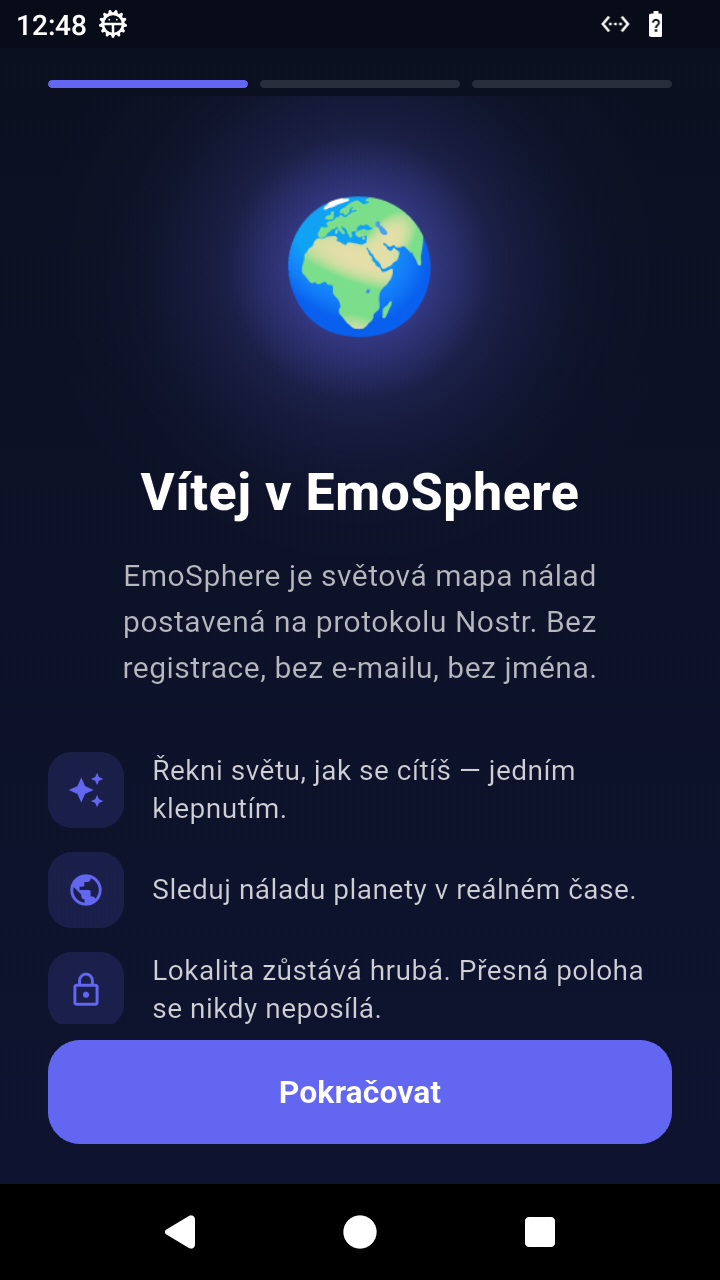
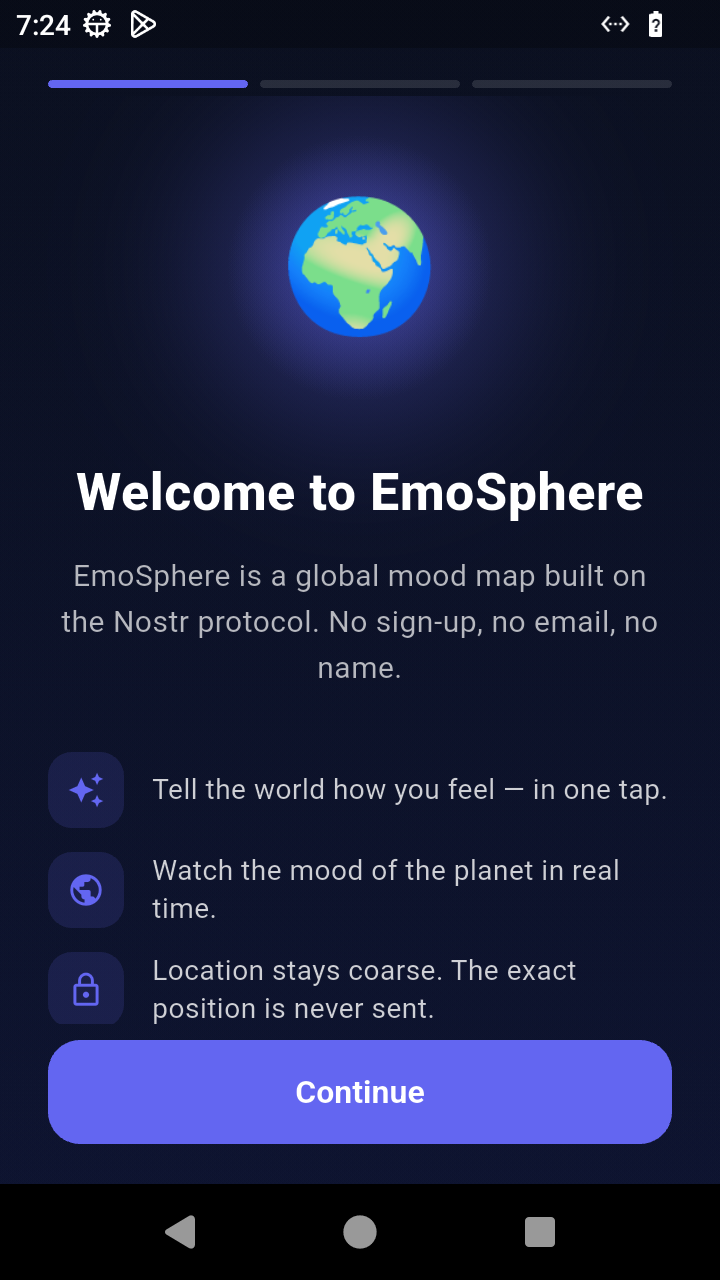
docs(screenshots): refresh all screenshots in English (v0.3.2 UI)

diff --git a/README.md b/README.md
@@ -24,27 +24,27 @@ right now.
   <tr>
     <td align="center"><img src="docs/screenshots/01-onboarding.png" width="230" alt="Onboarding"><br><sub>Onboarding — welcome</sub></td>
     <td align="center"><img src="docs/screenshots/02-onboarding-key.png" width="230" alt="Generate or import your key"><br><sub>Generate or import your Nostr key</sub></td>
-    <td align="center"><img src="docs/screenshots/03-mapa.png" width="230" alt="World mood map"><br><sub>World mood map (empty state)</sub></td>
+    <td align="center"><img src="docs/screenshots/03-map.png" width="230" alt="World mood map"><br><sub>World mood map — live emotion heat</sub></td>
   </tr>
   <tr>
     <td align="center"><img src="docs/screenshots/04-checkin-sheet.png" width="230" alt="Check-in"><br><sub>Check-in — emotion, intensity, note</sub></td>
     <td align="center"><img src="docs/screenshots/05-feed.png" width="230" alt="Feed"><br><sub>Feed — my people &amp; the world</sub></td>
-    <td align="center"><img src="docs/screenshots/06-nastaveni.png" width="230" alt="Settings"><br><sub>Settings — profile, key, language</sub></td>
+    <td align="center"><img src="docs/screenshots/06-settings.png" width="230" alt="Settings"><br><sub>Settings — profile, key, language</sub></td>
   </tr>
   <tr>
-    <td align="center"><img src="docs/screenshots/07-historie.png" width="230" alt="History"><br><sub>History — my check-ins</sub></td>
+    <td align="center"><img src="docs/screenshots/07-history.png" width="230" alt="History"><br><sub>History — my check-ins</sub></td>
     <td></td>
     <td></td>
   </tr>
 </table>
 
-The screenshots show the Czech UI — the app ships in Czech and English.
+The screenshots show the English UI — the app ships in English and Czech.
 
 ## Get the app
 
 | Platform | How to install |
 |---|---|
-| **Android** | Download `app-release.apk` from the [latest release](https://github.com/Vojta01/emosphere/releases/latest), allow installation from unknown sources and open the file. Android 7.0+ (API 24+). |
+| **Android** | Download the `emosphere-<version>.apk` from the [latest release](https://github.com/Vojta01/emosphere/releases/latest), allow installation from unknown sources and open the file. Android 7.0+ (API 24+). |
 | **iPhone / iPad** | Open https://vojta01.github.io/emosphere/ in **Safari** → *Share* → **Add to Home Screen**. It then behaves like a native app — no App Store, no Mac needed. |
 | **Web** | https://vojta01.github.io/emosphere/ — an installable PWA, works in any modern browser. |
 
@@ -99,14 +99,16 @@ More docs: [docs/SPEC.md](docs/SPEC.md) · [docs/CORE-API.md](docs/CORE-API.md) 
 
 ## Status
 
-**v0.1.0 — MVP, released 22 Oct 2026.** All planned MVP features are in: onboarding + key backup, check-in, world mood map, feed, friends, history, settings, Czech/English UI — shipped as an Android APK and an installable PWA. 156 unit/widget tests are green and CI is green on `main`.
+**v0.3.2 — released 22 Oct 2026.** All MVP features are in: onboarding + key backup, check-in, world mood map with a continuous emotion heat layer, feed, friends, history, settings, Czech/English UI — shipped as a release-signed Android APK and an installable PWA. 195 unit/widget tests are green, `flutter analyze` is clean and CI is green on `main`.
+
+Recently shipped: the heat map (v0.3.0), publish resilience — retries and stale-socket recovery (v0.3.1), heat cells centred on the actual check-ins rather than the coarse cell middle (v0.3.2).
 
 Remaining work:
 
-- **UI polish** — the check-in "Send" button can sit partially under the system navigation bar, and the floating "How do you feel?" button overlaps the language selector in Settings.
+- **Anti-spam** — check-ins are open by design; per-key aggregation and rate limits are planned.
 - **PWA** — Flutter currently registers the service worker from its bootstrap; switch to an app-owned registration once upstream lands ([flutter#156910](https://github.com/flutter/flutter/issues/156910)).
-- **Android release** — the APK is signed with the Android debug key (sideload only). A production keystore and a Play Store listing are not set up yet.
 - **iOS** — no native iOS app; the PWA is the iOS path (by design).
+- **Play Store** — the APK is release-signed for sideloading; a Play Store listing is not set up.
 
 ## License
 
